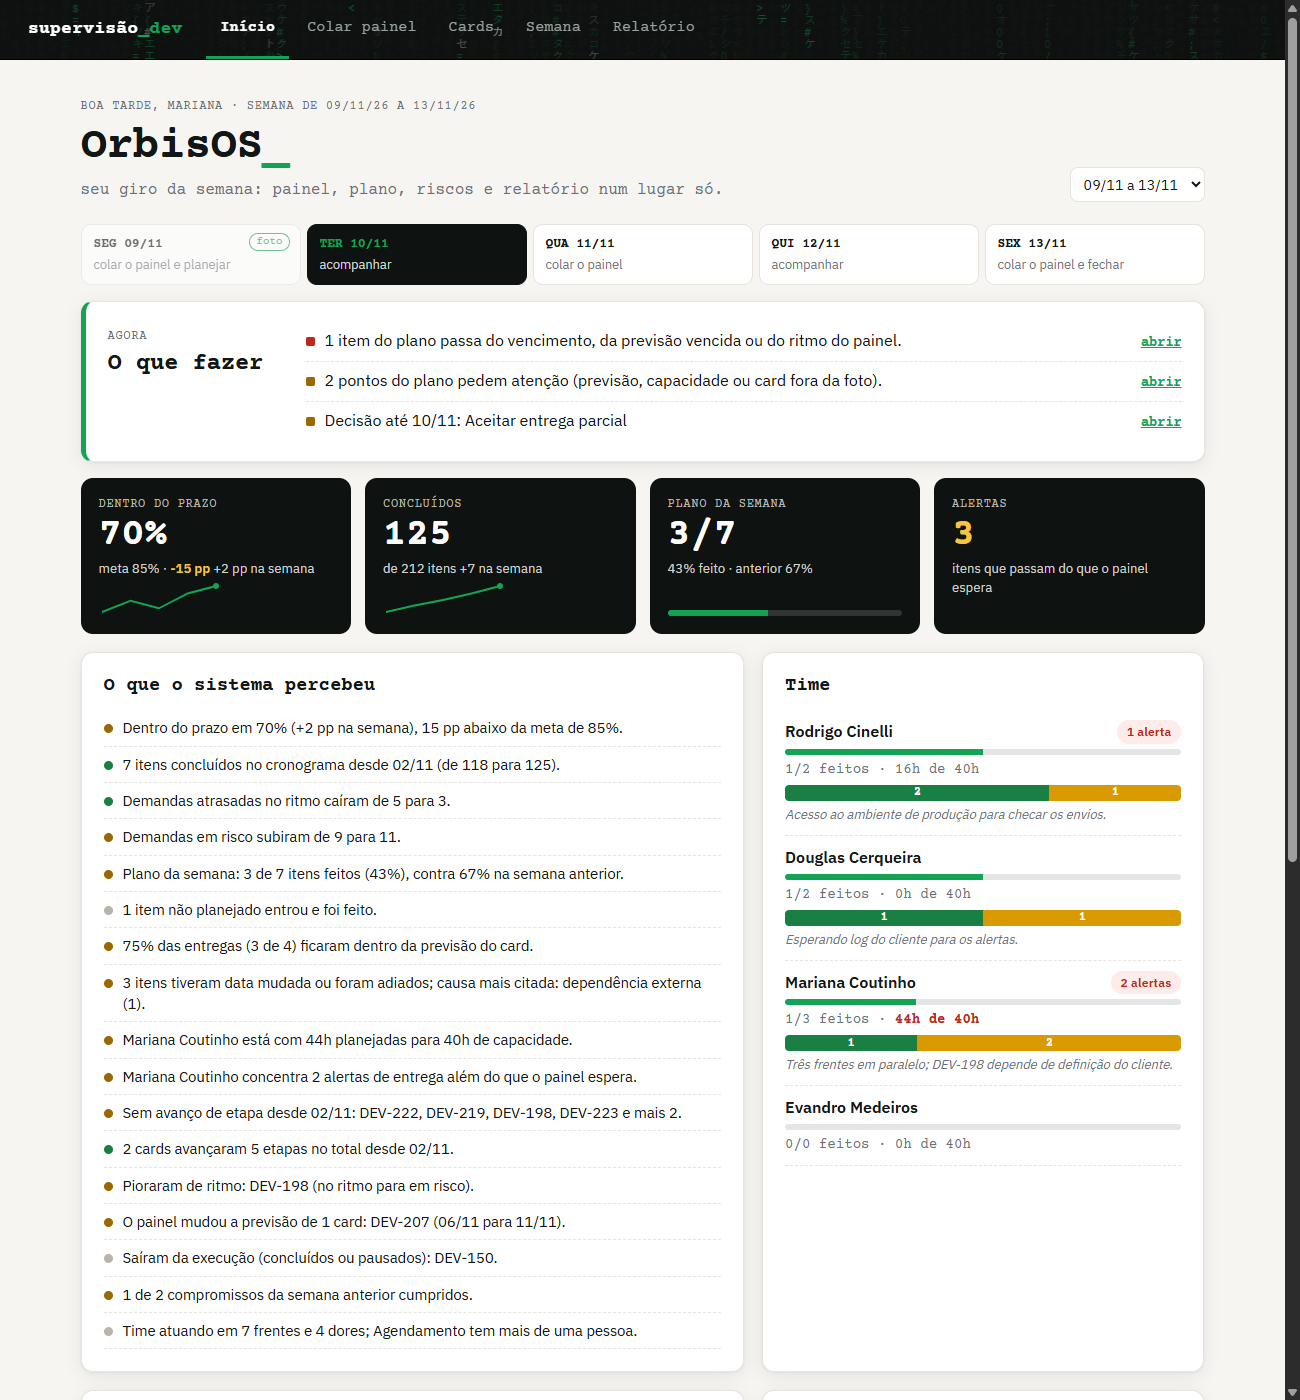
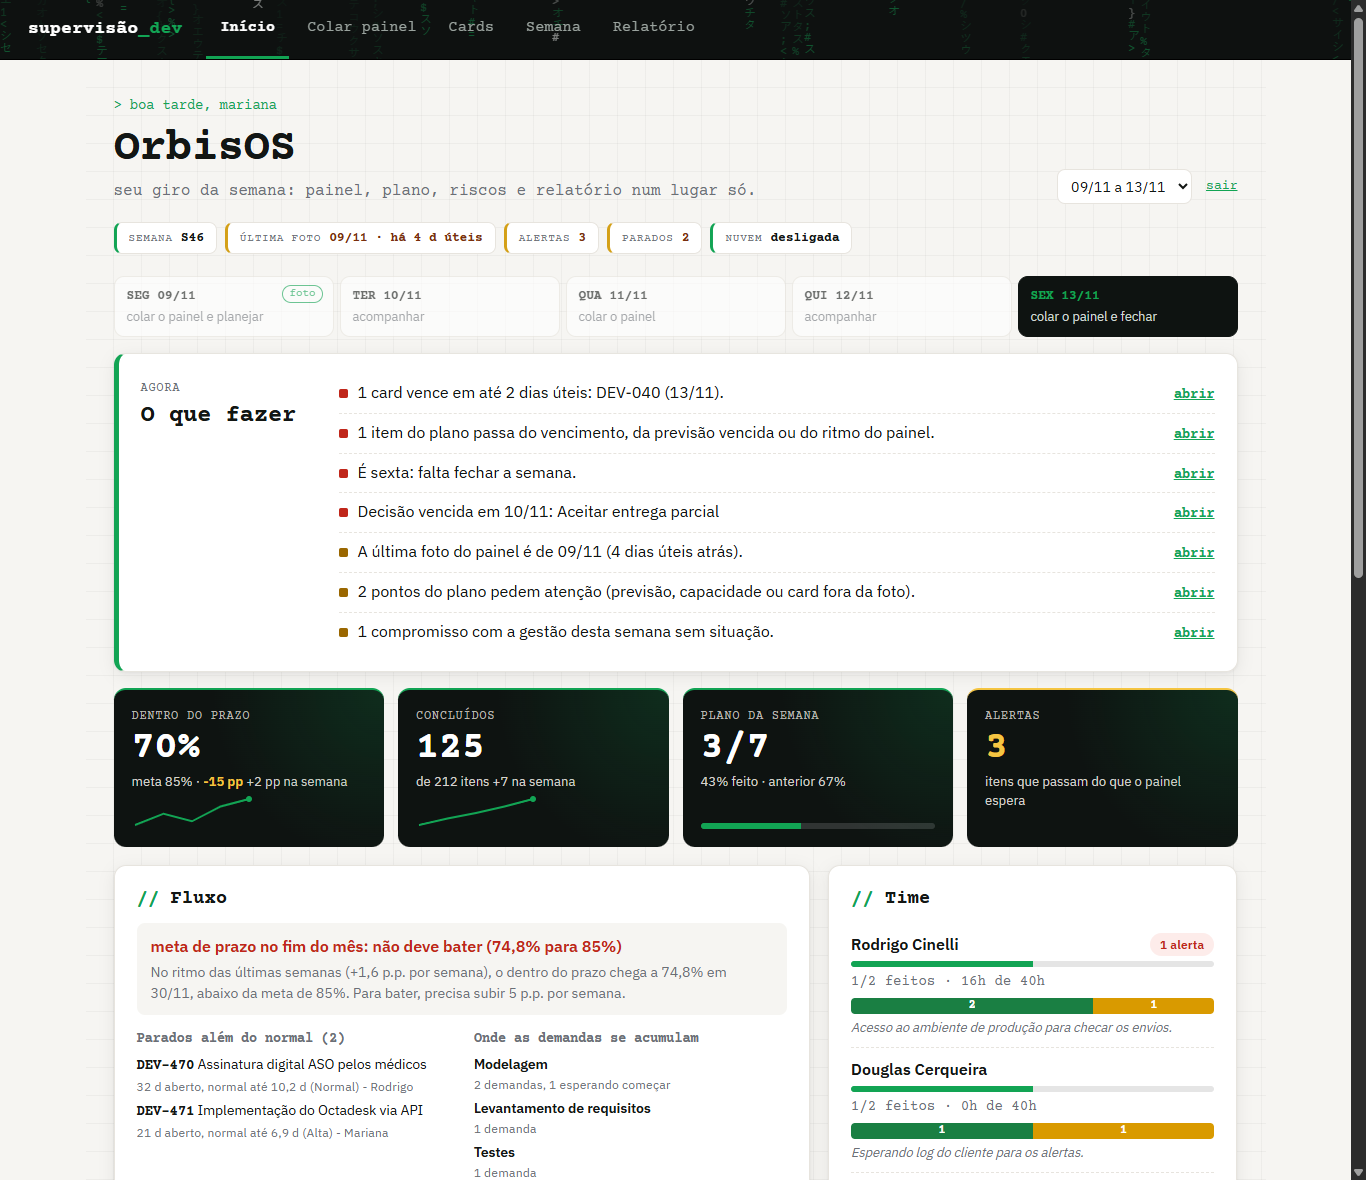
corrige build na Vercel (adapter-static com pasta fixa, sem modo automatico); README com prints novos da inicio e da entrada, link do site e funcoes novas

diff --git a/apps/relatorio/vite.config.ts b/apps/relatorio/vite.config.ts
@@ -3,5 +3,6 @@ import { sveltekit } from '@sveltejs/kit/vite';
 import { defineConfig } from 'vite';
 
 export default defineConfig({
-  plugins: [sveltekit({ adapter: adapter() })],
+  // pasta fixa: sem opções, na Vercel o adapter grava em .vercel/output e o vercel.json não acha o site
+  plugins: [sveltekit({ adapter: adapter({ pages: 'build', assets: 'build' }) })],
 });

diff --git a/README.md b/README.md
@@ -1,8 +1,12 @@
 # OrbisOS
 
-Ferramenta de supervisão do time de desenvolvimento. Transforma o que o painel do gestor mostra (Ctrl+C ou print da tela) em acompanhamento semanal e em relatórios em PDF.
+Ferramenta de supervisão do time de desenvolvimento. Transforma o que o painel do gestor mostra (Ctrl+C, print da tela ou o CSV da lista de Demandas) em acompanhamento semanal, alertas de fluxo e relatórios em PDF.
 
-![Central do OrbisOS](docs/orbisos.png)
+No ar: https://orbisos-eta.vercel.app
+
+![Início do OrbisOS](docs/orbisos.png)
+
+![Tela de entrada](docs/entrar.png)
 
 ## O nome
 
@@ -11,19 +15,20 @@ Ferramenta de supervisão do time de desenvolvimento. Transforma o que o painel 
 ## Ideia
 
 - O painel do gestor é a fonte da verdade. O OrbisOS só lê e compara os números; nunca recalcula o que o painel já mostra.
-- Não existe export do painel. A entrada é um Ctrl+C da tela ou um print, lido no navegador pelo tesseract.js.
-- Roda só no navegador, sem servidor e sem conta. Os dados ficam no localStorage, e o backup é um arquivo .json.
+- A entrada é um Ctrl+C da tela, um print (lido no navegador pelo tesseract.js) ou o CSV exportado da lista de Demandas.
+- Roda no navegador. Os dados ficam no localStorage, com backup em .json e sincronização opcional no Firebase. A tela de entrada só identifica quem usa; a proteção de verdade é o login Google do Firebase.
 - Tudo gratuito: nenhuma API paga e nenhuma IA paga. A ponte com IA é opcional: copiar um texto e colar num chat gratuito.
 
 ## Como funciona
 
 ```mermaid
 flowchart LR
-  P[Painel do gestor] -->|Ctrl+C ou print| L[Leitor<br/>totais e cards]
+  P[Painel do gestor] -->|Ctrl+C, print ou CSV| L[Leitor<br/>totais, cards, etapas, ondas]
   L --> F[(Foto do dia<br/>localStorage)]
   PL[Plano da semana<br/>por pessoa] --> A
   F --> A[Comparação e análise<br/>semana x anterior ou período]
-  A --> C[Central<br/>o que fazer hoje, alertas, time]
+  A --> C[Central<br/>o que fazer hoje, alertas, fluxo, time]
+  LI[Listas de checagem] --> C
   A --> S{Saídas}
   M[Modelo de relatório<br/>lista de blocos] --> S
   S --> PDF[PDF oficial]
@@ -31,16 +36,18 @@ flowchart LR
   S --> IA[Pacote para IA gratuita]
 ```
 
-A semana segue o ciclo da central: segunda cola o painel e confirma o plano; terça a quinta acompanha; sexta cola de novo e fecha. O relatório sai de um **modelo**: uma lista de blocos (seções prontas, texto, gráfico, tabela, quebra de página). Os modelos prontos são Semanal completo, Executivo e Período (do dia X ao dia Y).
+A semana segue o ciclo da central: segunda cola o painel e confirma o plano; terça a quinta acompanha; sexta cola de novo e fecha. A central também mostra o **fluxo**: tempo de entrega por prioridade (p50 e p85), demandas paradas além do normal, onde as demandas se acumulam, a projeção da meta de prazo no fim do mês e o que vence em até 2 dias úteis. O relatório sai de um **modelo**: uma lista de blocos (seções prontas, texto, gráfico, tabela, quebra de página). Os modelos prontos são Semanal completo, Executivo e Período (do dia X ao dia Y).
 
 ## Estrutura
 
 ```
 packages/core      regras puras em TypeScript, sem DOM, com testes (vitest)
-  src/leitor/      lê o texto do painel: totais, cards, normalização
+  src/leitor/      lê o painel: totais, cards, etapas do card, ondas e o CSV de demandas
+  src/fluxo.ts     tempo de entrega, parados, gargalos, projeção da meta e vencimentos
+  src/checklist.ts listas de checagem
   src/modelo.ts    modelos de relatório prontos e validação de modelos importados
 apps/relatorio     SvelteKit (Svelte 5, adapter-static)
-  routes/          central, colar painel, cards, semana, relatório, modelos
+  routes/          entrar, central, colar painel, cards, semana, relatório, modelos, listas
   lib/pdf.ts       monta o PDF com pdfmake, bloco por bloco
   lib/ocr.ts       prepara o print e roda o tesseract.js
 ```
@@ -57,6 +64,8 @@ npm run check     # tipos (tsc e svelte-check)
 npm run build     # site estático em apps/relatorio/build
 ```
 
+Publicação: projeto **orbisos** na Vercel, ligado a este repositório. Cada envio para a main publica sozinho; a configuração está em [vercel.json](vercel.json).
+
 ## Nuvem (Firebase, opcional)
 
 O navegador é a cópia de trabalho (localStorage). Com o Firebase ligado, cada mudança vai para o Firestore 2 s depois. Ao abrir o app, a versão mais nova vence; num navegador novo, a nuvem vence e o que havia ali é baixado como backup.
@@ -65,7 +74,7 @@ O navegador é a cópia de trabalho (localStorage). Com o Firebase ligado, cada 
 2. Em Authentication, ative o provedor Google.
 3. Em Firestore Database, crie o banco e cole as regras de [firestore.rules](firestore.rules).
 4. Em Configurações do projeto > Seus apps, crie um app Web e copie a configuração para [apps/relatorio/src/lib/firebaseConfig.ts](apps/relatorio/src/lib/firebaseConfig.ts).
-5. Se o app for publicado (GitHub Pages, por exemplo), adicione o domínio em Authentication > Configurações > Domínios autorizados.
+5. Em Authentication > Configurações > Domínios autorizados, adicione `orbisos-eta.vercel.app`.
 
 Estrutura: `usuarios/{uid}/geral/dados` guarda tudo menos as fotos, e `usuarios/{uid}/fotos/{data}` guarda uma foto do painel por documento. A configuração do app web não é segredo; quem protege os dados são as regras.
 
